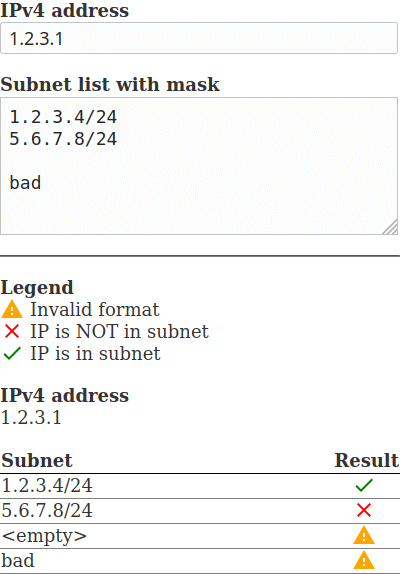
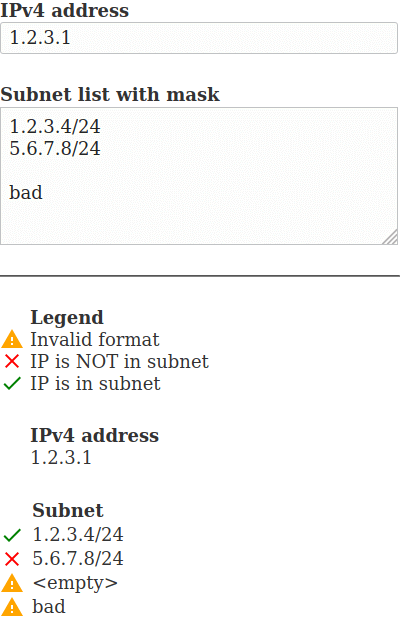
Move inline styles to stylesheet

diff --git a/index.html b/index.html
@@ -5,37 +5,96 @@
   <meta charset='UTF-8'>
   <meta name='viewport' content='width=device-width, initial-scale=1.0'>
   <title>IP in subnet list checker</title>
+  <style>
+    body {
+      font-size: 18px;
+      color: #333;
+    }
+
+    main {
+      max-width: 400px;
+      margin: 0 auto;
+      margin-top: 30px;
+    }
+
+    label {
+      display: block;
+    }
+
+    input,
+    textarea {
+      display: block;
+      width: 95%;
+      max-width: 95%;
+      font-size: inherit;
+      font-family: inherit;
+    }
+
+    textarea {
+      min-width: 95%;
+      min-height: 120px;
+      padding: 8px;
+    }
+
+    table {
+      border-collapse: collapse;
+    }
+
+    svg {
+      width: 24px;
+      height: 24px;
+      position: absolute;
+      bottom: 0;
+      margin-left: -30px;
+    }
+
+    .bold {
+      font-weight: 700;
+    }
+
+    .relative {
+      position: relative;
+    }
+
+    .mb {
+      margin-bottom: 30px;
+    }
+
+    .pl {
+      padding-left: 30px;
+    }
+  </style>
 </head>
 
-<body style='font-size: 18px; color: #333;'>
-  <main style='max-width: 400px; margin: 0 auto'>
-    <div style='margin-bottom: 20px;'>
-      <label style='display: block; font-weight:700;' for='ip'>IPv4 address</label>
-      <input style='width:95%;display:block;max-width: 95%; font-size: inherit;' id='ip' placeholder='1.2.3.1' />
+<body>
+  <main>
+    <div class='mb'>
+      <label for='ip' class='bold'>IPv4 address</label>
+      <input id='ip' placeholder='1.2.3.1' />
     </div>
 
-    <div style='margin-bottom: 20px;'>
-      <label style='display: block; font-weight:700;'  for='subnet-list'>Subnet list with mask</label>
-      <textarea style='width:95%;display:block;max-width: 95%; min-width: 95%; min-height: 120px; padding: 8px; font-size: inherit;' id='subnet-list' placeholder='1.2.3.4/24&#10;5.6.7.8/24'></textarea>
+    <div class='mb'>
+      <label for='subnet-list' class='bold'>Subnet list with mask</label>
+      <textarea id='subnet-list' placeholder='1.2.3.4/24&#10;5.6.7.8/24'></textarea>
     </div>
 
-    <hr style='margin-bottom: 20px;'>
+    <hr class='mb'>
 
-    <div style='margin-bottom: 20px;'>
-      <span style='font-weight:700;'>Legend</span>
+    <div class='mb'>
+      <span class='bold pl'>Legend</span>
       <div id='icon-legend'></div>
     </div>
 
-    <div style='margin-bottom: 20px;'>
-      <span style='font-weight:700;'>IPv4 address</span>
+    <div class='mb'>
+      <span class='bold pl'>IPv4 address</span>
       <div id='output-ip'></div>
     </div>
 
-    <table style='border-collapse: collapse; width: 100%;'>
+    <table>
       <thead>
-        <tr>
-          <td style='border-bottom: 1px solid black;width:85%;font-weight:700;'>Subnet</td>
-          <td style='border-bottom: 1px solid black;width:15%; text-align: center;font-weight:700;'>Result</td>
+        <tr class='bold'>
+          <td class='pl'></td>
+          <td>Subnet</td>
         </tr>
       </thead>
       <tbody id='output-list'></tbody>
@@ -54,7 +113,7 @@
     }
 
     function isSubnetValid(subnet) {
-      // From https://stackoverflow.com/a/26445549/7526052 in comment
+      // From https://stackoverflow.com/a/26445549/7526052 in comment section
       return /^(25[0-5]|2[0-4][0-9]|1[0-9][0-9]|[1-9]?[0-9])\.(25[0-5]|2[0-4][0-9]|1[0-9][0-9]|[1-9]?[0-9])\.(25[0-5]|2[0-4][0-9]|1[0-9][0-9]|[1-9]?[0-9])\.(25[0-5]|2[0-4][0-9]|1[0-9][0-9]|[1-9]?[0-9])(\/([1-2][0-9]|3[0-2]|[0-9]))$/.test(subnet)
     }
 
@@ -90,29 +149,56 @@
     }
 
     function processSubnetList(ip, subnetList) {
-      return subnetList.map(subnet => processSubnet(ip, subnet))
+      if (isIpValid(ip)) {
+        return subnetList.map(subnet => processSubnet(ip, subnet))
+      } else {
+        return []
+      }
     }
 
     function getIcon(isValid, containsIp) {
+      // From https://materialdesignicons.com/
       if (!isValid) {
-        return `<svg style='width:24px;height:24px;position:absolute;bottom:0' viewBox='0 0 24 24'><path fill='orange' d='M13,14H11V10H13M13,18H11V16H13M1,21H23L12,2L1,21Z' /></svg>`
+        return `<svg viewBox='0 0 24 24'><path fill='orange' d='M13,14H11V10H13M13,18H11V16H13M1,21H23L12,2L1,21Z' /></svg>`
       } else if (!containsIp) {
-        return `<svg style='width:24px;height:24px;position:absolute;bottom:0' viewBox='0 0 24 24'><path fill='red' d='M19,6.41L17.59,5L12,10.59L6.41,5L5,6.41L10.59,12L5,17.59L6.41,19L12,13.41L17.59,19L19,17.59L13.41,12L19,6.41Z' /></svg>`
+        return `<svg viewBox='0 0 24 24'><path fill='red' d='M19,6.41L17.59,5L12,10.59L6.41,5L5,6.41L10.59,12L5,17.59L6.41,19L12,13.41L17.59,19L19,17.59L13.41,12L19,6.41Z' /></svg>`
       } else {
-        return `<svg style='width:24px;height:24px;position:absolute;bottom:0' viewBox='0 0 24 24'><path fill='green' d='M21,7L9,19L3.5,13.5L4.91,12.09L9,16.17L19.59,5.59L21,7Z' /></svg>`
-      }      
+        return `<svg viewBox='0 0 24 24'><path fill='green' d='M21,7L9,19L3.5,13.5L4.91,12.09L9,16.17L19.59,5.59L21,7Z' /></svg>`
+      }
     }
 
     function encodeHTML(s) {
       return s.replace(/&/g, '&amp;').replace(/</g, '&lt;').replace(/"/g, '&quot;').replace(/'/g, '&#x27;')
     }
 
-    function generateProcessedSubnetList(subnetList) {
-      let subnetListItems = subnetList.map(subnet => `<tr><td style='border-bottom: 1px solid gray;'>${subnet.subnet ? encodeHTML(subnet.subnet) : '&lt;empty&gt;'}</td><td style='border-bottom: 1px solid gray; text-align: center'><div style='position: relative'><span style='margin-right: 30px'>${getIcon(subnet.isValid, subnet.containsIp)}</div></span></td></tr>`)
-      return subnetListItems.join('')
+    function generateProcessedIp(ip) {
+      if (isIpValid(ip)) {
+        return `<div class='relative pl'>${ip}</div>`
+      } else {
+        return `<div class='relative pl'>${getIcon(false, false)} ${ip ? encodeHTML(ip) : '&lt;empty&gt;'}</div>`
+      }
     }
 
-    function findSubnet() {
+    function generateProcessedSubnet(subnet) {
+      let iconPart = `<td class='relative pl'>${getIcon(subnet.isValid, subnet.containsIp)}</td>`
+      let subnetPart = `<td>${subnet.subnet ? encodeHTML(subnet.subnet) : '&lt;empty&gt;'}</td>`
+      return `<tr>${iconPart}${subnetPart}</tr>`
+    }
+
+    function generateProcessedSubnetList(subnetList) {
+      return subnetList.map(subnet => generateProcessedSubnet(subnet)).join('')
+    }
+
+    function getIconLegend() {
+      let legends = [
+        `<div class='relative pl'>${getIcon(false, false)} Invalid format</div>`,
+        `<div class='relative pl'>${getIcon(true, false)} IP is NOT in subnet</div>`,
+        `<div class='relative pl'>${getIcon(true, true)} IP is in subnet</div>`
+      ]
+      return `<div>${legends.join('')}</div>`
+    }
+
+    function findMatchingSubnets() {
       let ipInput = document.getElementById('ip')
       let subnetListInput = document.getElementById('subnet-list')
       let outputIpElem = document.getElementById('output-ip')
@@ -121,22 +207,17 @@
       let ip = ipInput.value
       let subnetList = subnetListInput.value.split(/\n/)
 
-      let processedSubnetList = []
-      if (isIpValid(ip)) {
-        outputIpElem.innerHTML = ip
-        processedSubnetList = processSubnetList(ip, subnetList)
-      } else {
-        outputIpElem.innerHTML = `<div style='position: relative;'>${ip ? encodeHTML(ip) : '&lt;empty&gt;'}<span style='margin-left: 10px'>${getIcon(false, false)}</span></div>`
-      }
+      let processedSubnetList = processSubnetList(ip, subnetList)
 
+      outputIpElem.innerHTML = generateProcessedIp(ip)
       outputListElem.innerHTML = generateProcessedSubnetList(processedSubnetList)
     }
 
     function getIconLegend() {
-      legends = [
-        `<div style='position: relative;'><span style='margin-right: 30px'>${getIcon(false, false)}</span> Invalid format</div>`,
-        `<div style='position: relative;'><span style='margin-right: 30px'>${getIcon(true, false)}</span> IP is NOT in subnet</div>`,
-        `<div style='position: relative;'><span style='margin-right: 30px'>${getIcon(true, true)}</span> IP is in subnet</div>`
+      let legends = [
+        `<div class='relative pl'>${getIcon(false, false)} Invalid format</div>`,
+        `<div class='relative pl'>${getIcon(true, false)} IP is NOT in subnet</div>`,
+        `<div class='relative pl'>${getIcon(true, true)} IP is in subnet</div>`
       ]
       return `<div>${legends.join('')}</div>`
     }
@@ -146,12 +227,12 @@
       let subnetListInput = document.getElementById('subnet-list')
       let iconLegend = document.getElementById('icon-legend')
 
-      ipInput.addEventListener('input', findSubnet)
-      subnetListInput.addEventListener('input', findSubnet)
+      ipInput.addEventListener('input', findMatchingSubnets)
+      subnetListInput.addEventListener('input', findMatchingSubnets)
 
       iconLegend.innerHTML = getIconLegend()
 
-      findSubnet()
+      findMatchingSubnets()
     }
 
     window.onload = setup
